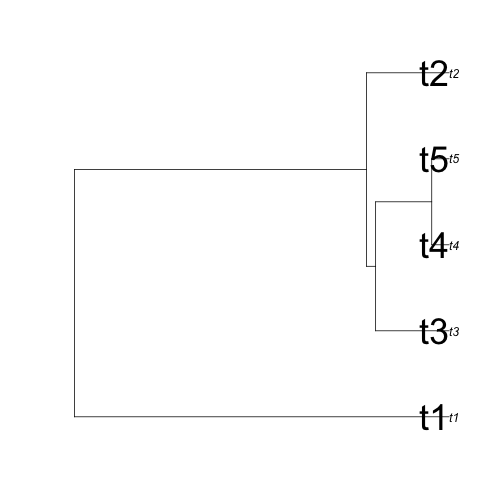
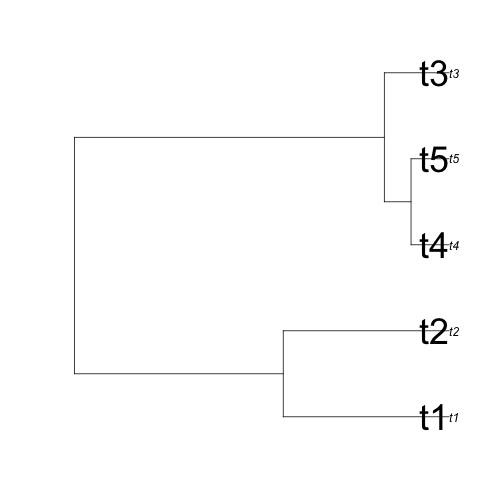
resetting to original PCM lecturer

diff --git a/GMcourse/Lectures/09-PhyCompMethods.html b/GMcourse/Lectures/09-PhyCompMethods.html
@@ -386,51 +386,51 @@ class: center, middle, inverse, title-slide
   &lt;tr&gt;
    &lt;th style="text-align:left;"&gt;   &lt;/th&gt;
    &lt;th style="text-align:right;"&gt; t1 &lt;/th&gt;
-   &lt;th style="text-align:right;"&gt; t3 &lt;/th&gt;
+   &lt;th style="text-align:right;"&gt; t2 &lt;/th&gt;
    &lt;th style="text-align:right;"&gt; t4 &lt;/th&gt;
    &lt;th style="text-align:right;"&gt; t5 &lt;/th&gt;
-   &lt;th style="text-align:right;"&gt; t2 &lt;/th&gt;
+   &lt;th style="text-align:right;"&gt; t3 &lt;/th&gt;
   &lt;/tr&gt;
  &lt;/thead&gt;
 &lt;tbody&gt;
   &lt;tr&gt;
    &lt;td style="text-align:left;"&gt; t1 &lt;/td&gt;
-   &lt;td style="text-align:right;"&gt; 1 &lt;/td&gt;
-   &lt;td style="text-align:right;"&gt; 0.00 &lt;/td&gt;
-   &lt;td style="text-align:right;"&gt; 0.00 &lt;/td&gt;
-   &lt;td style="text-align:right;"&gt; 0.00 &lt;/td&gt;
-   &lt;td style="text-align:right;"&gt; 0.00 &lt;/td&gt;
-  &lt;/tr&gt;
-  &lt;tr&gt;
-   &lt;td style="text-align:left;"&gt; t3 &lt;/td&gt;
-   &lt;td style="text-align:right;"&gt; 0 &lt;/td&gt;
    &lt;td style="text-align:right;"&gt; 1.00 &lt;/td&gt;
-   &lt;td style="text-align:right;"&gt; 0.80 &lt;/td&gt;
-   &lt;td style="text-align:right;"&gt; 0.80 &lt;/td&gt;
-   &lt;td style="text-align:right;"&gt; 0.78 &lt;/td&gt;
-  &lt;/tr&gt;
-  &lt;tr&gt;
-   &lt;td style="text-align:left;"&gt; t4 &lt;/td&gt;
-   &lt;td style="text-align:right;"&gt; 0 &lt;/td&gt;
-   &lt;td style="text-align:right;"&gt; 0.80 &lt;/td&gt;
-   &lt;td style="text-align:right;"&gt; 1.00 &lt;/td&gt;
-   &lt;td style="text-align:right;"&gt; 0.95 &lt;/td&gt;
-   &lt;td style="text-align:right;"&gt; 0.78 &lt;/td&gt;
-  &lt;/tr&gt;
-  &lt;tr&gt;
-   &lt;td style="text-align:left;"&gt; t5 &lt;/td&gt;
-   &lt;td style="text-align:right;"&gt; 0 &lt;/td&gt;
-   &lt;td style="text-align:right;"&gt; 0.80 &lt;/td&gt;
-   &lt;td style="text-align:right;"&gt; 0.95 &lt;/td&gt;
-   &lt;td style="text-align:right;"&gt; 1.00 &lt;/td&gt;
-   &lt;td style="text-align:right;"&gt; 0.78 &lt;/td&gt;
+   &lt;td style="text-align:right;"&gt; 0.56 &lt;/td&gt;
+   &lt;td style="text-align:right;"&gt; 0.00 &lt;/td&gt;
+   &lt;td style="text-align:right;"&gt; 0.00 &lt;/td&gt;
+   &lt;td style="text-align:right;"&gt; 0.00 &lt;/td&gt;
   &lt;/tr&gt;
   &lt;tr&gt;
    &lt;td style="text-align:left;"&gt; t2 &lt;/td&gt;
-   &lt;td style="text-align:right;"&gt; 0 &lt;/td&gt;
-   &lt;td style="text-align:right;"&gt; 0.78 &lt;/td&gt;
-   &lt;td style="text-align:right;"&gt; 0.78 &lt;/td&gt;
-   &lt;td style="text-align:right;"&gt; 0.78 &lt;/td&gt;
+   &lt;td style="text-align:right;"&gt; 0.56 &lt;/td&gt;
+   &lt;td style="text-align:right;"&gt; 1.00 &lt;/td&gt;
+   &lt;td style="text-align:right;"&gt; 0.00 &lt;/td&gt;
+   &lt;td style="text-align:right;"&gt; 0.00 &lt;/td&gt;
+   &lt;td style="text-align:right;"&gt; 0.00 &lt;/td&gt;
+  &lt;/tr&gt;
+  &lt;tr&gt;
+   &lt;td style="text-align:left;"&gt; t4 &lt;/td&gt;
+   &lt;td style="text-align:right;"&gt; 0.00 &lt;/td&gt;
+   &lt;td style="text-align:right;"&gt; 0.00 &lt;/td&gt;
+   &lt;td style="text-align:right;"&gt; 1.00 &lt;/td&gt;
+   &lt;td style="text-align:right;"&gt; 0.90 &lt;/td&gt;
+   &lt;td style="text-align:right;"&gt; 0.83 &lt;/td&gt;
+  &lt;/tr&gt;
+  &lt;tr&gt;
+   &lt;td style="text-align:left;"&gt; t5 &lt;/td&gt;
+   &lt;td style="text-align:right;"&gt; 0.00 &lt;/td&gt;
+   &lt;td style="text-align:right;"&gt; 0.00 &lt;/td&gt;
+   &lt;td style="text-align:right;"&gt; 0.90 &lt;/td&gt;
+   &lt;td style="text-align:right;"&gt; 1.00 &lt;/td&gt;
+   &lt;td style="text-align:right;"&gt; 0.83 &lt;/td&gt;
+  &lt;/tr&gt;
+  &lt;tr&gt;
+   &lt;td style="text-align:left;"&gt; t3 &lt;/td&gt;
+   &lt;td style="text-align:right;"&gt; 0.00 &lt;/td&gt;
+   &lt;td style="text-align:right;"&gt; 0.00 &lt;/td&gt;
+   &lt;td style="text-align:right;"&gt; 0.83 &lt;/td&gt;
+   &lt;td style="text-align:right;"&gt; 0.83 &lt;/td&gt;
    &lt;td style="text-align:right;"&gt; 1.00 &lt;/td&gt;
   &lt;/tr&gt;
 &lt;/tbody&gt;
